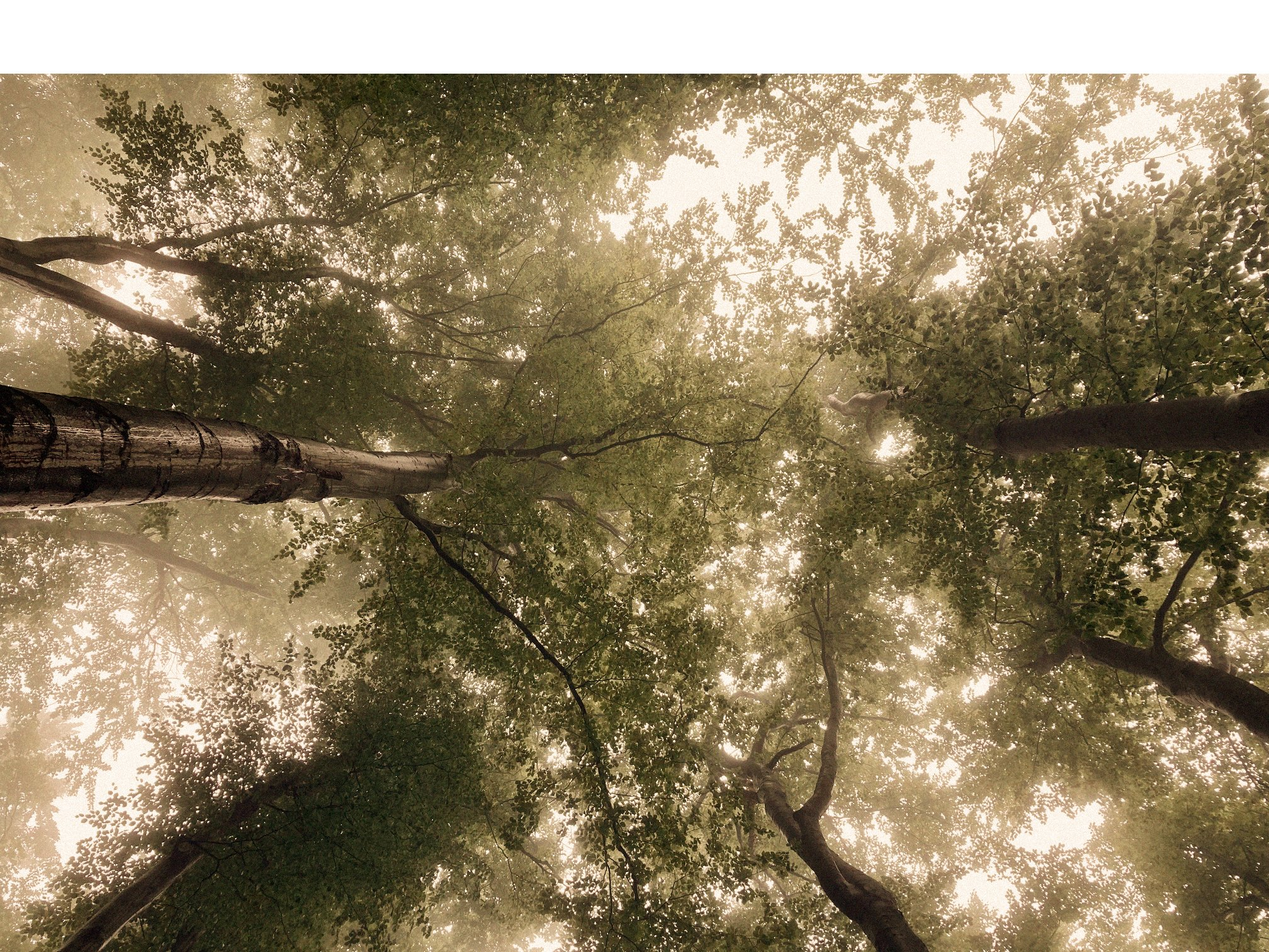
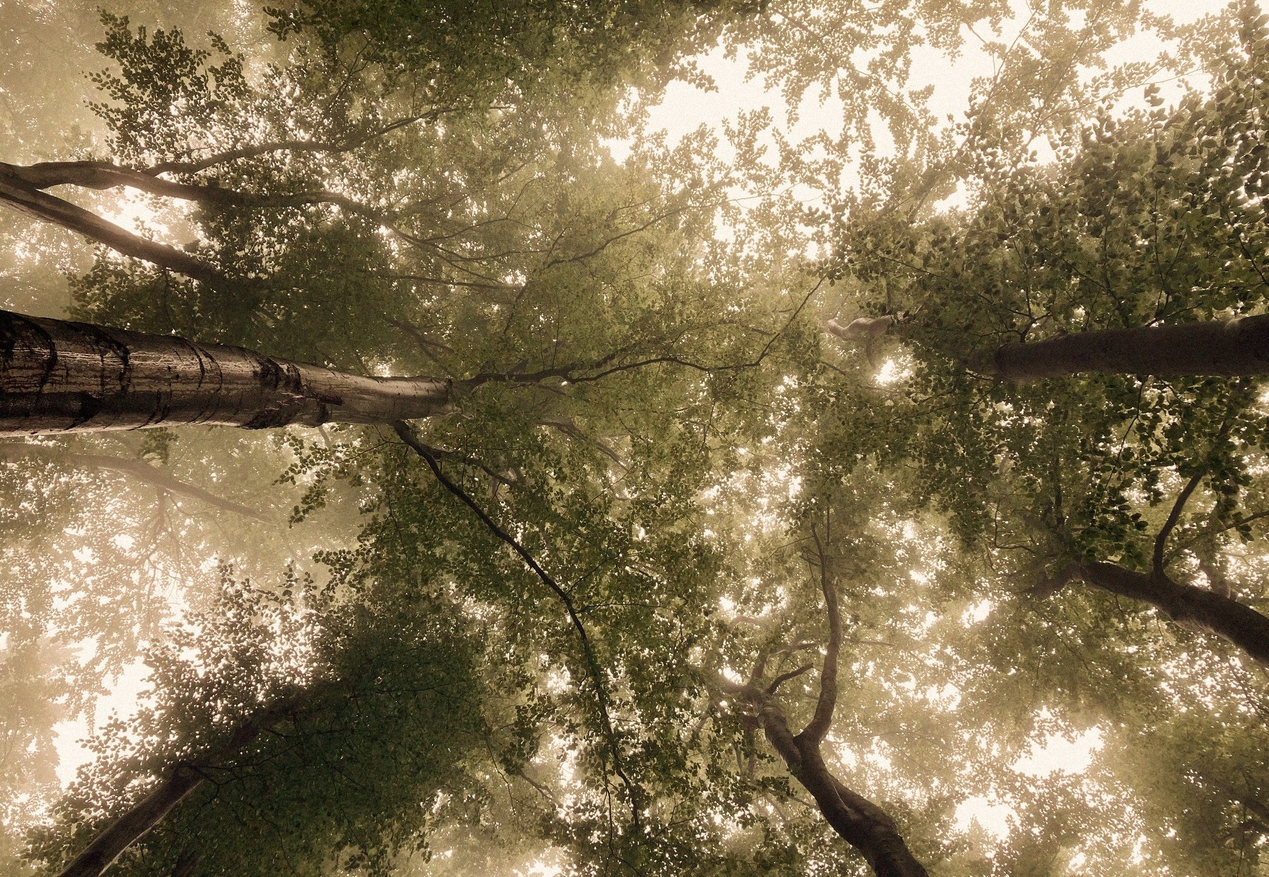
background image fixing

diff --git a/css/style.css b/css/style.css
@@ -14,9 +14,10 @@ html {
 .body {
    background-image: url("../images/background.jpg");
    background-repeat: no-repeat;
-   background-size: 100%;
+   background-size: cover;
    background-position: top;
-    max-width: 1000px;
+   background-attachment: fixed;
+    max-width:fit-content;
     margin-top: 0;
     font-family: 'Raleway', sans-serif;
     line-height: 2;
